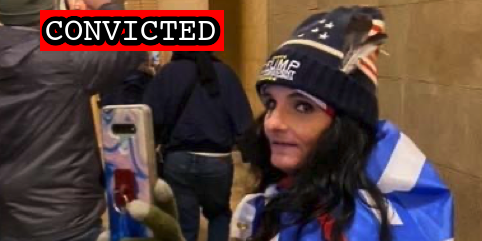
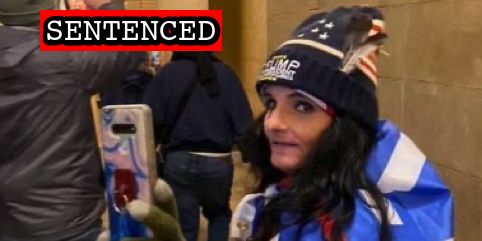
Latest sentences

Changed region(s): [[0.0622, 0.0581, 0.3734, 0.2033], [0.4357, 0.0581, 0.4668, 0.2033]]

diff --git a/docs/_suspects/tammy-bronsburg.md b/docs/_suspects/tammy-bronsburg.md
@@ -4,13 +4,13 @@ lastName: Bronsburg
 hashtag: TammyBronsburg
 aka: Tammy Butry
 residence: Pennsylvania
-status: Convicted
+status: Sentenced
 date: 2021-02-04
 charged: 2021-02-04
 indicted:
 convicted: 2022-06-07
 acquitted:
-sentenced:
+sentenced: 2023-01-05
 dismissed:
 deceased:
 plea_hearing: 2022-06-07
@@ -41,12 +41,16 @@ caseName: USA v. BRONSBURG
 judge: Reggie B. Walton
 videos:
 charges:
-- code: 40 USC § 5104(e)(2)(G)
-  title: Parading, demonstrating or picketing in a Capitol building
-  url: https://www.law.cornell.edu/uscode/text/40/5104
-  felony: false
+  - code: 40 USC § 5104(e)(2)(G)
+    title: Parading, demonstrating or picketing in a Capitol building
+    url: https://www.law.cornell.edu/uscode/text/40/5104
+    felony: false
 sentence:
+  - 20 days incarceration
+  - 2 years probation
+  - $500 restitution
 ---
+
 - [News Report](https://www.northcentralpa.com/news/two-lycoming-county-individuals-charged-with-breaking-into-u-s-capitol/article_266b3682-67c5-11eb-a73d-9336a612db11.html)
 - [Complaint](https://extremism.gwu.edu/sites/g/files/zaxdzs2191/f/Mark%20Aungst%20and%20Tammy%20Bronsburg%20Criminal%20Complaint.pdf)
 - [Statement of Facts](https://www.justice.gov/usao-dc/case-multi-defendant/file/1365926/download)

diff --git a/docs/_suspects/vaughn-gordon.md b/docs/_suspects/vaughn-gordon.md
@@ -4,20 +4,20 @@ lastName: Gordon
 hashtag: VaughnGordon
 aka:
 residence: Louisiana
-status: Convicted
+status: Sentenced
 date: 2021-01-14
 charged: 2021-01-14
 indicted: 2021-02-09
 convicted: 2022-09-28
 acquitted:
-sentenced:
+sentenced: 2023-02-27
 dismissed:
 deceased:
 plea_hearing: 2022-09-28
 trial_date:
 trial_type:
 jury_selection:
-sentencing: 2023-02-24
+sentencing: 2023-02-27
 status_conference:
 age: 50
 occupation:
@@ -41,12 +41,16 @@ caseName: USA v. GORDON
 judge: Paul L. Friedman
 videos:
 charges:
-- code: 40 USC § 5104(e)(2)(G)
-  title: Parading, demonstrating or picketing in a Capitol building
-  url: https://www.law.cornell.edu/uscode/text/40/5104
-  felony: false
+  - code: 40 USC § 5104(e)(2)(G)
+    title: Parading, demonstrating or picketing in a Capitol building
+    url: https://www.law.cornell.edu/uscode/text/40/5104
+    felony: false
 sentence:
+  - 90 days home confinement
+  - 3 years probation
+  - $500 restitution
 ---
+
 - [News Report](https://www.theadvocate.com/acadiana/news/article_489d5514-56b3-11eb-bbbb-2b9a6a6e6984.html)
 - [Complaint](https://www.justice.gov/opa/page/file/1354986/download)
 - [Statement of Facts](https://www.justice.gov/opa/page/file/1354991/download)

diff --git a/docs/_suspects/tyler-slaeker.md b/docs/_suspects/tyler-slaeker.md
@@ -4,13 +4,13 @@ lastName: Slaeker
 hashtag: TylerSlaeker
 aka:
 residence: Washington
-status: Convicted
+status: Sentenced
 date: 2021-07-27
 charged: 2021-07-27
 indicted:
 convicted: 2022-06-10
 acquitted:
-sentenced:
+sentenced: 2023-01-13
 dismissed:
 deceased:
 plea_hearing: 2022-06-10
@@ -41,12 +41,16 @@ caseName: USA v. SLAEKER
 judge: Paul L. Friedman
 videos:
 charges:
-- code: 18 USC § 1752(a)(1)
-  title: Entering a restricted building or grounds
-  url: https://www.law.cornell.edu/uscode/text/18/1752
-  felony: false
+  - code: 18 USC § 1752(a)(1)
+    title: Entering a restricted building or grounds
+    url: https://www.law.cornell.edu/uscode/text/18/1752
+    felony: false
 sentence:
+  - 30 days home detention
+  - 3 years probation
+  - $500 restitution
 ---
+
 - [News Report](https://www.insider.com/capitol-rioter-arrested-after-mother-posted-his-pictures-on-facebook-2021-8)
 - [Statement of Facts](https://extremism.gwu.edu/sites/g/files/zaxdzs2191/f/Tyler%20Slaeker%20Affidavit%20in%20Support%20of%20Application%20for%20Arrest%20Warrant.pdf)
 - [Plea Agreement](https://storage.courtlistener.com/recap/gov.uscourts.dcd.236035/gov.uscourts.dcd.236035.44.0.pdf)

diff --git a/docs/_suspects/susan-manwaring.md b/docs/_suspects/susan-manwaring.md
@@ -4,26 +4,26 @@ lastName: Manwaring
 hashtag:
 aka:
 residence:
-status: Convicted
+status: Sentenced
 date: 2022-09-13
 charged: 2022-09-13
 indicted:
 convicted: 2022-10-05
 acquitted:
-sentenced:
+sentenced: 2023-02-14
 dismissed:
 deceased:
 plea_hearing: 2022-10-05
 trial_date:
 trial_type:
 jury_selection:
-sentencing: 2023-01-19
+sentencing: 2023-02-14
 status_conference:
 age:
 occupation:
 affiliations:
 jurisdiction: Federal
-image: /images/preview/convicted.jpg
+image: /images/preview/sentenced.jpg
 suspect: arrest.jpg
 booking:
 courtroom:
@@ -42,7 +42,11 @@ judge: Carl J. Nichols
 videos:
 charges:
 sentence:
+  - 30 days home detention
+  - 3 years probation
+  - $500 restitution
 ---
+
 - [Information](https://www.justice.gov/usao-dc/case-multi-defendant/file/1540796/download)
 - [Plea Agreement](https://www.justice.gov/usao-dc/case-multi-defendant/file/1540801/download)
 - [Statement of Offense](https://www.justice.gov/usao-dc/case-multi-defendant/file/1540806/download)

diff --git a/docs/_suspects/michael-daniele.md b/docs/_suspects/michael-daniele.md
@@ -36,12 +36,13 @@ description: Click for latest case details. Suspects innocent until proven guilt
 author: seditiontrack
 layout: suspect
 published: true
-caseNumber: 
+caseNumber: 23-mj-00042
 caseName: USA v. DANIELE
 judge:
 videos:
 charges:
 sentence:
 ---
+
 - [News Report](https://www.courierpostonline.com/story/news/local/south-jersey/2023/02/27/capitol-rioters-sentenced-retired-nj-state-trooper-michael-daniele/69951038007/)
 - [Statement of Facts](https://storage.courtlistener.com/recap/gov.uscourts.dcd.252406/gov.uscourts.dcd.252406.1.1.pdf)

diff --git a/docs/_suspects/nathan-watts.md b/docs/_suspects/nathan-watts.md
@@ -1,9 +1,9 @@
 ---
 name: Nathan Watts
 lastName: Watts
-hashtag: 
+hashtag:
 aka:
-residence: 
+residence:
 status: Charged
 date: 2023-02-23
 charged: 2023-02-23
@@ -36,11 +36,12 @@ description: Click for latest case details. Suspects innocent until proven guilt
 author: seditiontrack
 layout: suspect
 published: true
-caseNumber: 
+caseNumber: 23-mj-00044
 caseName: USA v. WATTS
 judge:
 videos:
 charges:
 sentence:
 ---
+
 - [Arrest Warrant](https://storage.courtlistener.com/recap/gov.uscourts.dcd.252474/gov.uscourts.dcd.252474.5.0.pdf)

diff --git a/docs/_suspects/rodney-milstreed.md b/docs/_suspects/rodney-milstreed.md
@@ -13,7 +13,7 @@ acquitted:
 sentenced:
 dismissed:
 deceased:
-plea_hearing: 2023-02-24
+plea_hearing:
 trial_date:
 trial_type:
 jury_selection:
@@ -43,6 +43,7 @@ videos:
 charges:
 sentence:
 ---
+
 - [News Report](https://www.9news.com/article/news/crime/capitol-riot-suspect-rodney-milstreed/73-395be66f-e2e3-4669-9e91-f2d22f5c6f6f)
 - [Complaint](https://www.justice.gov/usao-dc/case-multi-defendant/file/1508141/download)
 - [Statement of Facts](https://www.justice.gov/usao-dc/case-multi-defendant/file/1508146/download)
